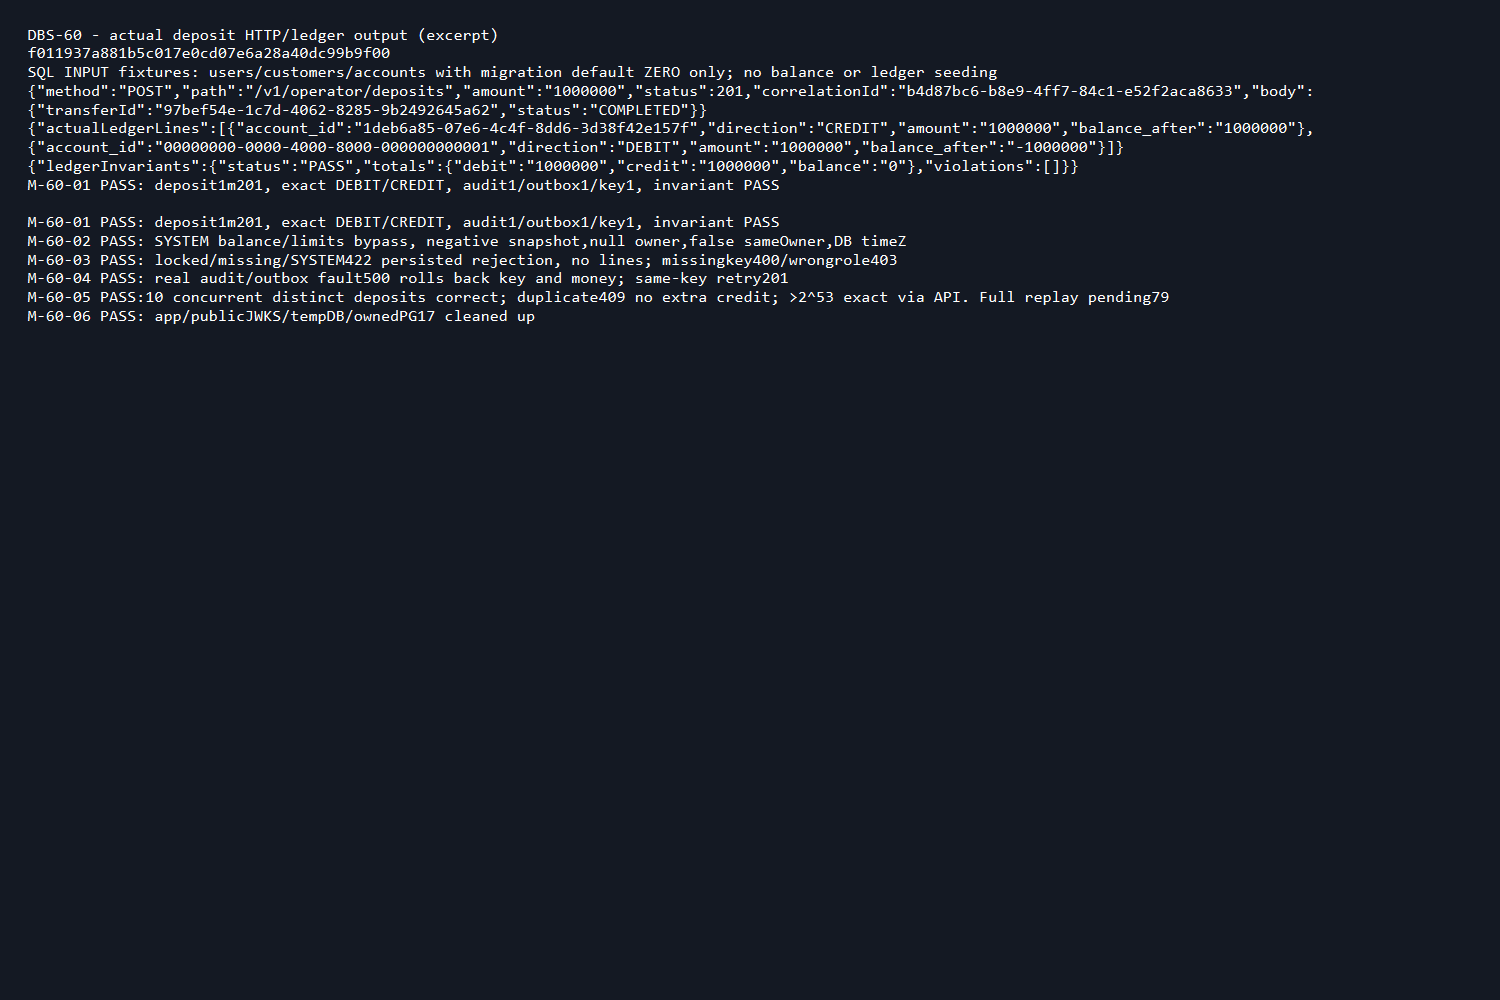
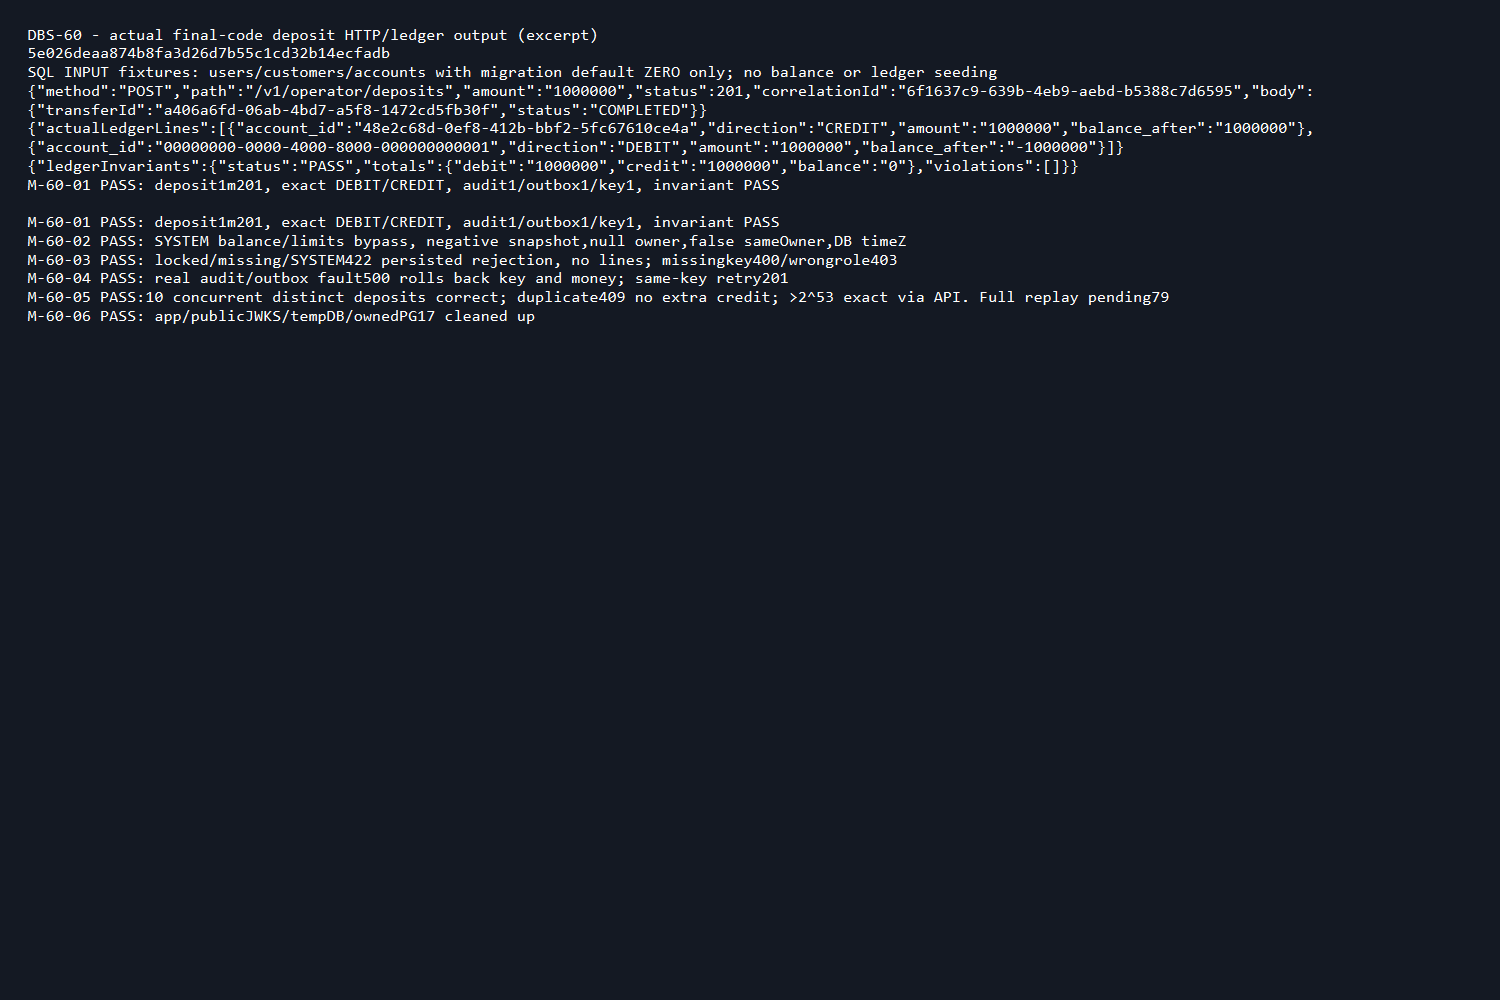
docs(ledger): refresh DBS-60 manual evidence on final code

diff --git a/docs/features/DBS-60-operator-deposits.md b/docs/features/DBS-60-operator-deposits.md
@@ -112,7 +112,7 @@ Implemented LedgerModule/DepositService/DTO/operator controller from main, no62/
 
 Both design findings fixed and re-reviewed APPROVE. BL-002 resolved by actual valid deposit events including negativefundingsnapshot/DBtime/nullsourceowner. BL-122 narrowed to remaining transfer work; deposit part tested. BL-148 explicitly tracks79 replay/conflict work per board, BL-149 process/CI/Dev review/merge. BL-004 and other source gaps preserved. No human gate approvals or CI outcome claimed before actual run. Input SQL only creates zero-default accounts/customers/users, not money or ledger.
 
-Code commit `f011937a881b5c017e0cd07e6a28a40dc99b9f00`. Full e2e13 suites135/135 passed (83.334s); final deposit suite16/16 passed (6.232s) after lint-compatible bigint subtraction change. No skipped task tests; full DB suite not rerun locally, four affected suites used. [Verification summary](screenshots/DBS-60/verification.txt), [prepared PR mapping](screenshots/DBS-60/pr-description.md).
+Code commit `5e026deaa874b8fa3d26d7b55c1cd32b14ecfadb`. Full e2e13 suites135/135 passed (83.334s); final deposit suite16/16 passed (6.232s) after lint-compatible bigint subtraction change. No skipped task tests; full DB suite not rerun locally, four affected suites used. [Verification summary](screenshots/DBS-60/verification.txt), [prepared PR mapping](screenshots/DBS-60/pr-description.md).
 
 Manual `node scripts/manual-dbs60.cjs` executed all6 steps on code commit: [raw transcript](screenshots/DBS-60/manual-test.txt). M1 deposit1m exacttwo lines/audit1/outbox1/key1; M2 negative funding/valid event nullowner/false sameOwner/DBZtime; M3 locked/missing/SYSTEM422 with persistedreject, missingkey400/wrongrole403; M4 actual audit/outboxfault500 and samekeyretry201; M5 ten concurrent distinct deposits, guarded duplicate409,9007199254740993 exact via actualAPI; M6 app/publicJWKS/tempDB/container cleanup. Every invariant report PASS, zero violations,total balance0. No unexecuted step claimed passed; no token/credential markers in output.
 
@@ -127,3 +127,5 @@ Main-based [Draft PR57](https://github.com/Lawliet119/digital-banking-simulator/
 Sheet60, docs02 UC3/FR-LED-01/05/06, BR01/02/04/07/09, docs03 criticalpath6.1/UC3 diagram6.4; ADR04/05/07/09; database-design4.2-4.5; event-contract, actual accountprimitives/audit/outbox/transaction/guards, CONTRIBUTING5/5b. No sealed fraud dataset reads.
 
 Updated Ledger README/public exports and docs03 API maturity note, featureindex, BACKLOG (removed002, narrowed122, added148/149), independent review/manual/screenshot/verification artifacts. No schema/ADR/event/env change. Fixture-only user/customer/default-zero rows clearly labelled; no financial seeding or new mocked service.
+
+Final code update5e026de changes only duplicate-key response/Swagger wording (no internal issue ID in API error); financial logic unchanged. Deposit suite16/16 passed5.917s and all6 manual steps rerun on this final codeSHA. Full unit/e2e before wording-only update; final GitHub checks validate final head.
